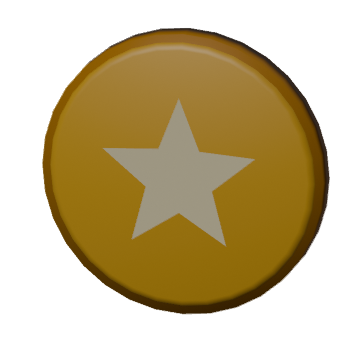
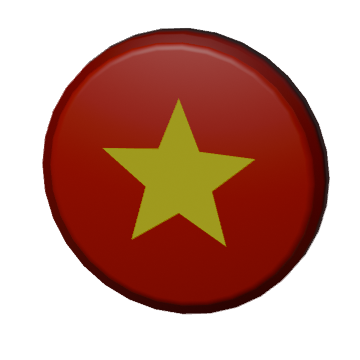
feat(assets): recolor the coin to the Vietnam flag
Rebuild collectibles/coin as a red disc with a yellow star emblem
(red #da251d body, #a81813 rim, #ffff00 star) to match the national
flag. Regenerated the source GLB/preview from the Blender script and the
Draco runtime copy.

diff --git a/scripts/blender/build-collectibles.py b/scripts/blender/build-collectibles.py
@@ -88,9 +88,10 @@ def star(name, surface_y, facing, mat, points=5, outer=0.12, inner=0.052, depth=
 
 
 def coin():
-    gold = material("coin-gold", "#f2b733", rough=0.28, metal=1.0)
-    rim = material("coin-rim", "#c7861c", rough=0.35, metal=1.0)
-    emblem = material("coin-emblem", "#fff0c2", rough=0.3, metal=1.0, emit=0.6)
+    # Vietnam flag palette: a red coin body with a yellow star emblem.
+    gold = material("coin-red", "#da251d", rough=0.3, metal=0.7)
+    rim = material("coin-rim", "#a81813", rough=0.35, metal=0.7)
+    emblem = material("coin-emblem", "#ffff00", rough=0.3, metal=0.6, emit=0.6)
     # Thin disc body with a slightly wider, darker rim ring for readability.
     body = cylinder("coin", 0.2, 0.05, (0, 0, 0), gold, verts=32, bevel=0.012)
     ring = cylinder("coin-ring", 0.21, 0.035, (0, 0, 0), rim, verts=32)
